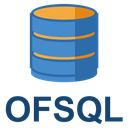
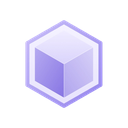
New artwork: hexagon and cube
The gallery icon is the supplied image. The activity bar cannot use it as
it stands — that icon is drawn at 24px and tinted a single colour by the
editor, so the gradients and the nested hexagons are lost either way. It
gets an outline of the same shape instead: one hexagon and the cube's three
visible faces, which is what still reads at that size.

diff --git a/CHANGELOG.md b/CHANGELOG.md
@@ -1,5 +1,13 @@
 # Changelog
 
+## 0.9.4
+
+- New artwork: the hexagon and isometric cube, replacing the database mark.
+  The gallery icon uses it as supplied; the activity bar gets an outline
+  version of the same shape, because that icon is drawn at 24px in a single
+  colour the editor chooses — gradients and nested hexagons cannot survive
+  there, but geometry can.
+
 ## 0.9.3
 
 - The activity bar carries Oracle's wide O with FSQL inside it, replacing the
